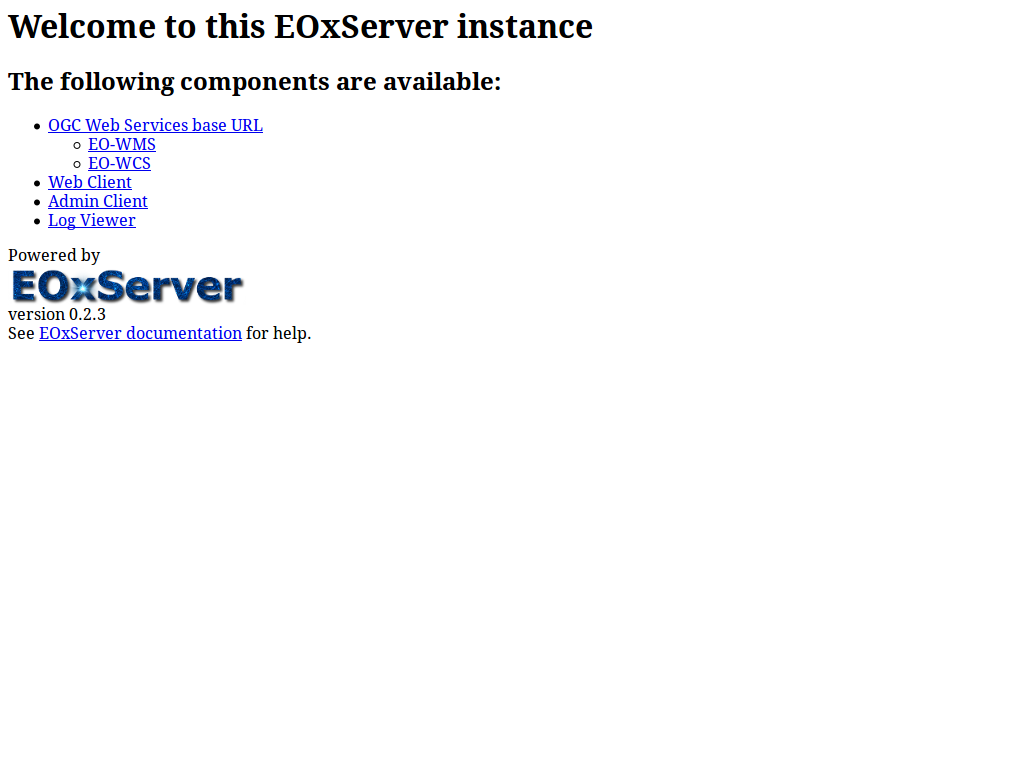
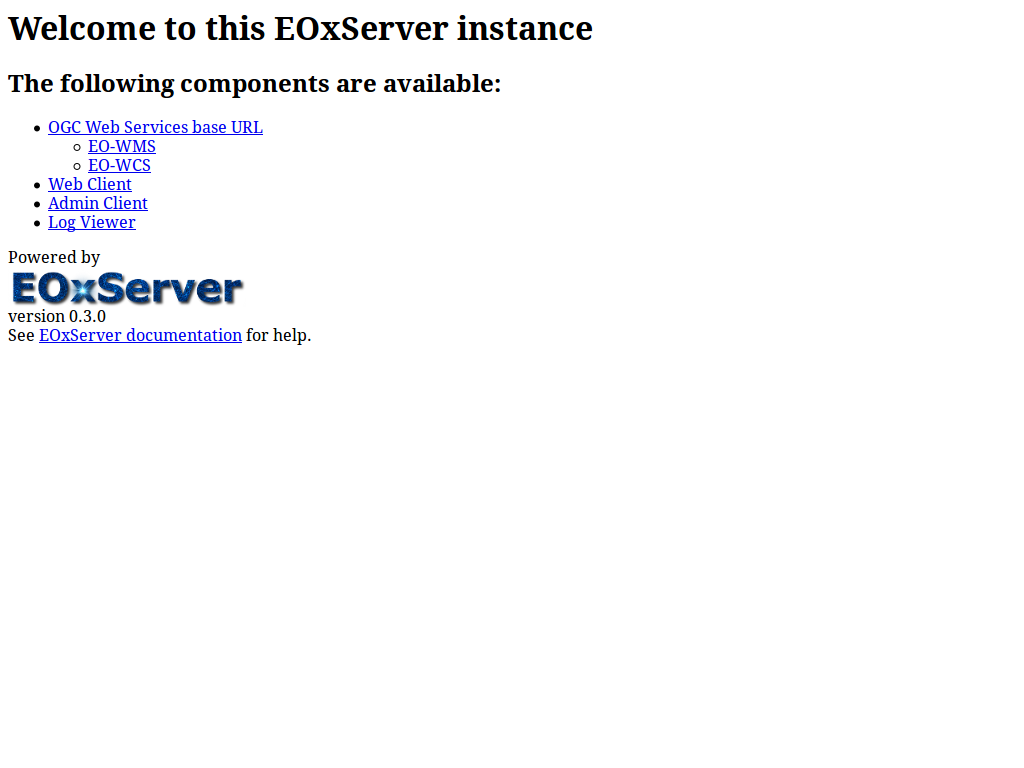
Adjusting EOxServer documentation.

Changed region(s): [[0.0, 0.1562, 0.3125, 0.4688], [0.0, 0.0, 0.5938, 0.0625], [0.0, 0.0938, 0.5, 0.125]]

diff --git a/livedvd/gisvm/trunk/doc/de/quickstart/eoxserver_quickstart.rst b/livedvd/gisvm/trunk/doc/de/quickstart/eoxserver_quickstart.rst
@@ -1,7 +1,7 @@
 :Author: OSGeo-Live 
 :Author: Stephan Meissl, Stephan Krause
 :Reviewer: Angelos Tzotsos
-:Version: osgeo-live6.5
+:Version: osgeo-live7.0
 :License: Creative Commons Attribution-ShareAlike 3.0 Unported (CC BY-SA 3.0)
 :Translator: Stephan Meissl
 
@@ -33,20 +33,25 @@ Dieses Quickstart beschreibt das:
 * Registrieren von Archiven von Erdbeobachtungsdaten unter Verwendung des in 
   EOxServer eingebauten Administrationsklienten
 
+.. contents:: Contents
+
 Weiterführende Informationen finden Sie im :doc:`EOxServer Overview 
 <../overview/eoxserver_overview>`, in der `lokalen EOxServer Dokumentation 
 <../../eoxserver-docs/EOxServer_documentation.pdf>`_ oder der `online 
 verfügbaren EOxServer Dokumentation <http://eoxserver.org/doc/>`_.
 
-.. contents:: Contents
+.. image:: ../../images/screenshots/1024x768/eoxserver_documentation.png
+  :scale: 50 %
+  :alt: EOxServer Dokumentation
 
 Demonstrationsinstanz
 ---------------------
 
-Für den Fall, dass Sie OSGeoLive mit 1GB RAM oder weniger laufen lassen, ist es ratsam den default Tomcat Service vor dem Aufruf von EOxServer zu stoppen.
-:: 
+.. Commented since Tomcat isn't started automatically anymore (#1032).
+    Für den Fall, dass Sie OSGeoLive mit 1GB RAM oder weniger laufen lassen, ist es ratsam den default Tomcat Service vor dem Aufruf von EOxServer zu stoppen.
+    :: 
 
-  sudo service tomcat6 stop
+      sudo service tomcat6 stop
 
 Unter `Web Services` finden Sie ein mit `EOxServer` beschriftetes Symbol 
 welches einen Browser startet der die Demonstrationsinstanz anzeigt. Diese 
@@ -56,14 +61,6 @@ zur Verfügung wie die `online Demo <https://eoxserver.org/demo_stable/>`_
 .. image:: ../../images/screenshots/1024x768/eoxserver_start.png
   :scale: 50 %
   :alt: Stat der EOxServer Demonstration
-
-Unter `Web Services` finden Sie auch ein mit `EOxServer Documentation` 
-beschriftetes Symbol welches einen pdf Betrachter startet der die verfügbare 
-Dokumentation anzeigt.
-
-.. image:: ../../images/screenshots/1024x768/eoxserver_documentation.png
-  :scale: 50 %
-  :alt: EOxServer Dokumentation
 
 Web Klient
 ~~~~~~~~~~

diff --git a/livedvd/gisvm/trunk/doc/en/quickstart/eoxserver_quickstart.rst b/livedvd/gisvm/trunk/doc/en/quickstart/eoxserver_quickstart.rst
@@ -1,7 +1,7 @@
 :Author: OSGeo-Live 
 :Author: Stephan Meissl, Stephan Krause
 :Reviewer: Angelos Tzotsos
-:Version: osgeo-live6.5
+:Version: osgeo-live7.0
 :License: Creative Commons Attribution-ShareAlike 3.0 Unported (CC BY-SA 3.0)
 
 .. image:: ../../images/project_logos/logo-eoxserver-2.png
@@ -30,20 +30,25 @@ This Quick Start describes how to:
 * View, filter, subset, and download EO data via EOxServer's Web Client
 * Register EO data archives via EOxServer's Admin Client
 
+.. contents:: Contents
+
 See the :doc:`EOxServer Overview <../overview/eoxserver_overview>`, the 
 `local EOxServer documentation 
 <../../eoxserver-docs/EOxServer_documentation.pdf>`_, or the `online 
 EOxServer documentation <http://eoxserver.org/doc/>`_ for more information.
 
-.. contents:: Contents
+.. image:: ../../images/screenshots/1024x768/eoxserver_documentation.png
+  :scale: 50 %
+  :alt: EOxServer documentation
 
 Demonstration Instance
 ----------------------
 
-In case you use OSGeoLive with 1GB RAM or less it is recommended to stop default Tomcat service before launching EOxServer
-:: 
+.. Commented since Tomcat isn't started automatically anymore (#1032).
+    In case you use OSGeoLive with 1GB RAM or less it is recommended to stop default Tomcat service before launching EOxServer
+    :: 
 
-  sudo service tomcat6 stop
+      sudo service tomcat6 stop
 
 The icon labeled `EOxServer` filed under `Web Services` launches a browser 
 showing the demonstration instance available at http://localhost/eoxserver/ 
@@ -53,13 +58,6 @@ which provides the same data as the `one available online
 .. image:: ../../images/screenshots/1024x768/eoxserver_start.png
   :scale: 50 %
   :alt: EOxServer demonstration start
-
-The icon labeled `EOxServer Documentation` also filed under `Web Services` 
-launches a pdf viewer showing the available documentation.
-
-.. image:: ../../images/screenshots/1024x768/eoxserver_documentation.png
-  :scale: 50 %
-  :alt: EOxServer documentation
 
 Web Client
 ~~~~~~~~~~

diff --git a/livedvd/gisvm/trunk/doc/en/overview/eoxserver_overview.rst b/livedvd/gisvm/trunk/doc/en/overview/eoxserver_overview.rst
@@ -1,7 +1,7 @@
 :Author: OSGeo-Live
 :Author: Stephan Meissl, Stephan Krause
 :Reviewer: Cameron Shorter, LISAsoft
-:Version: osgeo-live6.5
+:Version: osgeo-live7.0
 :License: Creative Commons Attribution 3.0 Unported (CC BY 3.0)
 
 .. image:: ../../images/project_logos/logo-eoxserver.png
@@ -77,7 +77,7 @@ Details
 
 **Licence:** `MIT-style license <http://eoxserver.org/doc/copyright.html#license>`_
 
-**Software Version:** 0.2.3
+**Software Version:** 0.3.0
 
 **Supported Platforms:** Linux, Windows, Mac
 

diff --git a/livedvd/gisvm/trunk/doc/de/overview/eoxserver_overview.rst b/livedvd/gisvm/trunk/doc/de/overview/eoxserver_overview.rst
@@ -1,7 +1,7 @@
 :Author: OSGeo-Live
 :Author: Stephan Meissl, Stephan Krause
 :Reviewer: Cameron Shorter, LISAsoft
-:Version: osgeo-live6.5
+:Version: osgeo-live7.0
 :License: Creative Commons Attribution 3.0 Unported (CC BY 3.0)
 :Translator: Frank Gasdorf, Stephan Meissl
 
@@ -82,7 +82,7 @@ Details
 
 **Lizenz:** `MIT-style license <http://eoxserver.org/doc/copyright.html#license>`_
 
-**Software Version:** 0.2.3
+**Software Version:** 0.3.0
 
 **Unterstützte Plattformen:** Linux, Windows, Mac
 
